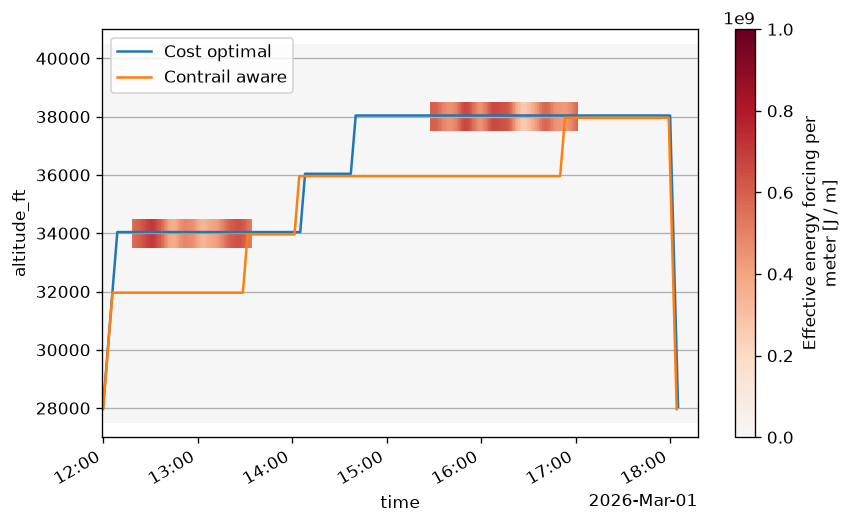
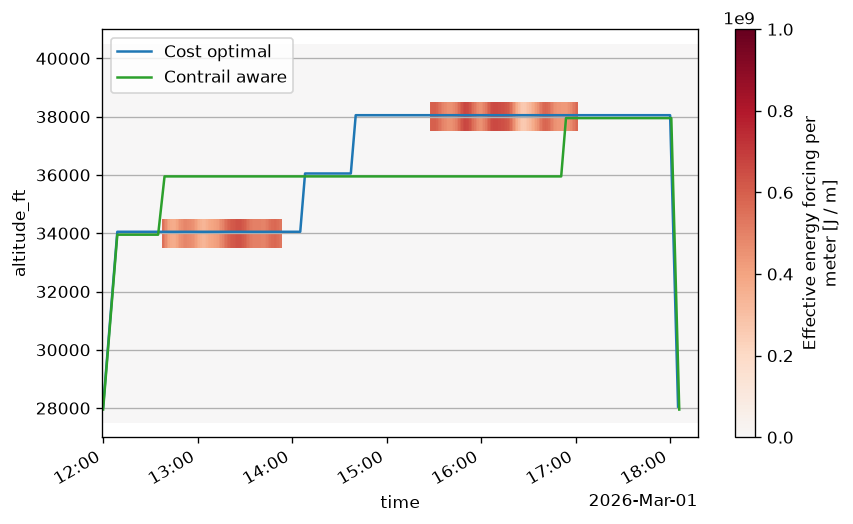
tweak profile

Changed region(s): [[0.1219, 0.2137, 0.823, 0.7939], [0.1219, 0.1221, 0.1829, 0.1527]]

diff --git a/docs/scripts/make_readme_figure.py b/docs/scripts/make_readme_figure.py
@@ -25,7 +25,7 @@ FL_CHOICES = np.arange(28_000.0, 40_001.0, 2000.0)
 
 BLOBS = (
     # (start fraction, end fraction, lower altitude, upper altitude)
-    (0.05, 0.25, 33500.0, 34500.0),
+    (0.1, 0.3, 33500.0, 34500.0),
     (0.55, 0.8, 37500.0, 38500.0),
 )
 EEF_RANGE = (2e8, 1e9)
@@ -33,7 +33,7 @@ EEF_CORRELATION = 0.01
 SEED = 1234
 
 # Add a small offset between the two profiles, so they stay distinct where they coincide
-PROFILE_OFFSET_FT = 40.0
+PROFILE_OFFSET_FT = 50.0
 
 COST_INDEX = 80.0
 DOLLAR_TONNE_CO2E = 10.0
@@ -148,8 +148,8 @@ def plot(
     )
 
     fig, ax = plt.subplots(figsize=(8, 5))
-    _offset(fl_cost, PROFILE_OFFSET_FT).plot_profile(ax=ax, label="Cost optimal")
-    _offset(fl_contrail, -PROFILE_OFFSET_FT).plot_profile(ax=ax, label="Contrail aware")
+    _offset(fl_cost, PROFILE_OFFSET_FT).plot_profile(ax=ax, label="Cost optimal", color="C0")
+    _offset(fl_contrail, -PROFILE_OFFSET_FT).plot_profile(ax=ax, label="Contrail aware", color="C2")
 
     curtain = field.rename({"waypoint": "time"}).assign_coords(time=flight["time"])
     curtain.plot.pcolormesh(
